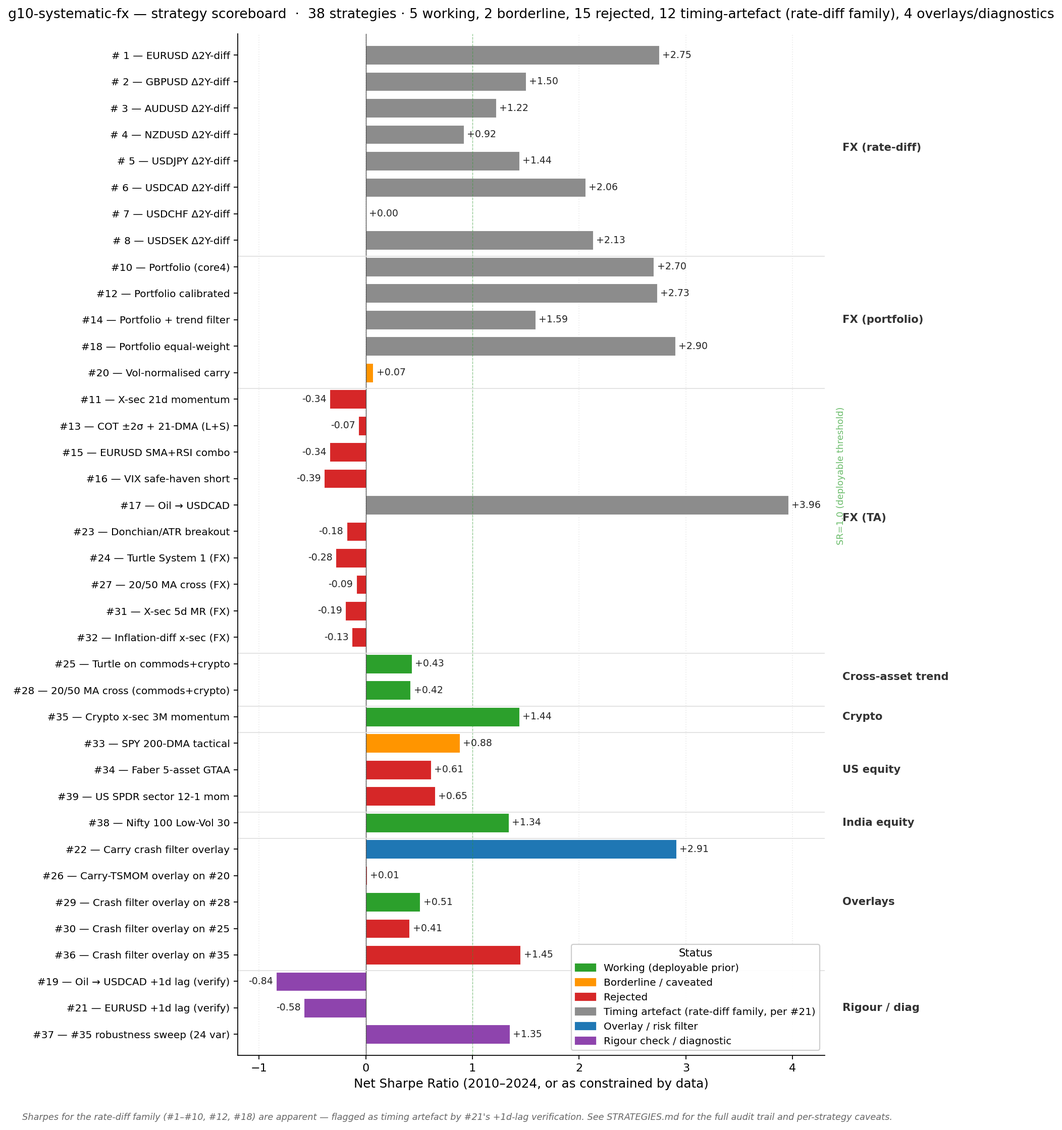
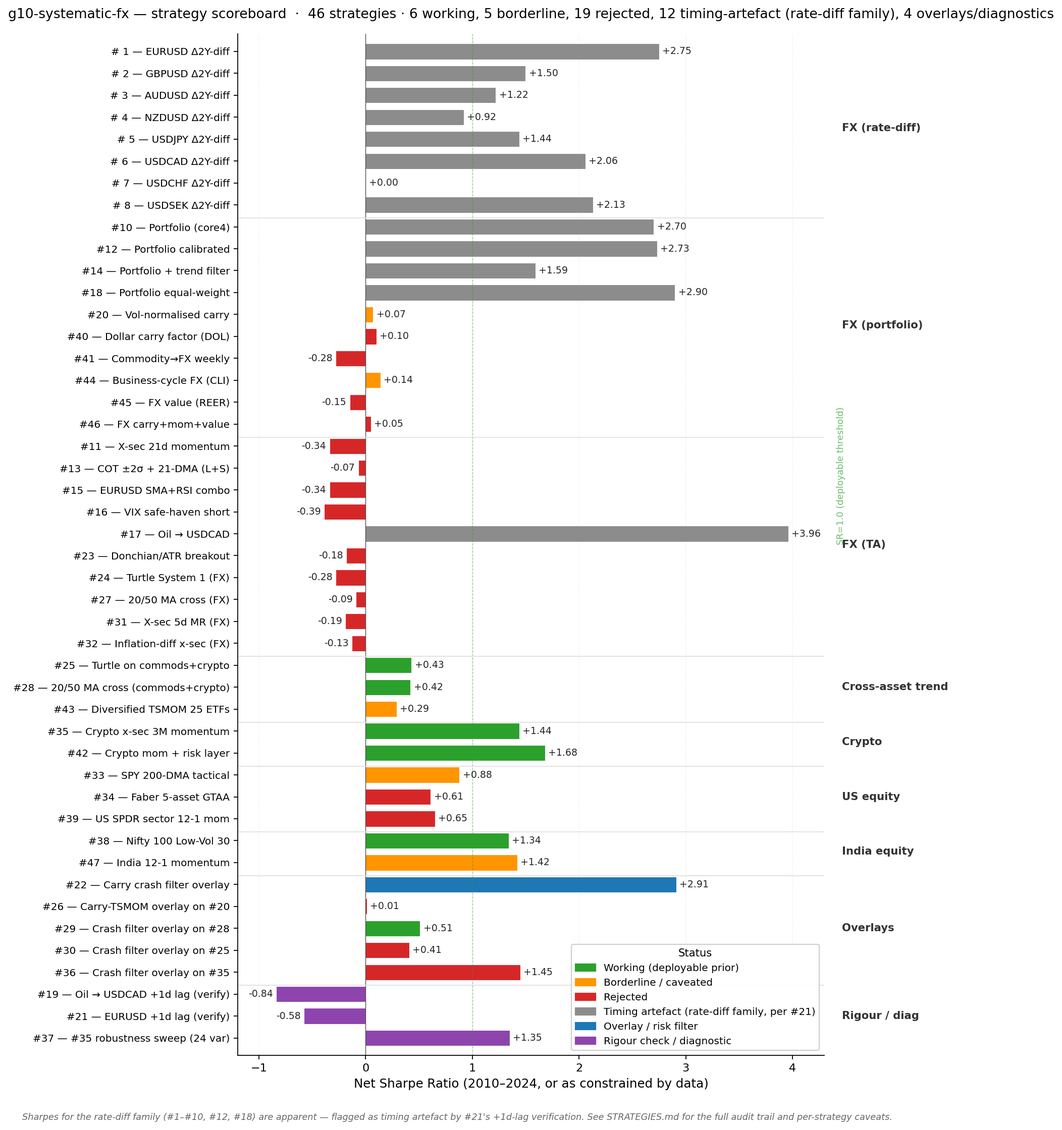
Docs — rate-diff look-ahead confirmed, #40-#47 results, dashboard
README/STRATEGIES: replace the #21 "likely artefact" caveat with the audit
finding, add #40-#47, downgrade #22, flag #35 hold-out failure, move
misfiled rejected rows out of Working/Borderline. Dashboard regenerated.

diff --git a/notebooks/strategy_dashboard.py b/notebooks/strategy_dashboard.py
@@ -1,7 +1,7 @@
 """
 Strategy dashboard — single-PNG summary of every strategy in the repo.
 
-Groups all 38 strategies by asset class and status, produces a horizontal
+Groups every strategy by asset class and status, produces a horizontal
 bar chart of net Sharpes with color-coded status legend. Companion visual
 to STRATEGIES.md.
 
@@ -27,7 +27,7 @@ REPORTS = REPO / "reports"
 # Status : "working", "borderline", "rejected", "timing_artefact", "overlay",
 #          "rigour"
 STRATEGIES = [
-    # Rate-diff family (all flagged as timing artefact by #21)
+    # Rate-diff family — look-ahead confirmed by notebooks/fx_timestamp_audit.py
     (1,  "EURUSD Δ2Y-diff",               "FX (rate-diff)",    "timing_artefact", 2.75),
     (2,  "GBPUSD Δ2Y-diff",               "FX (rate-diff)",    "timing_artefact", 1.50),
     (3,  "AUDUSD Δ2Y-diff",               "FX (rate-diff)",    "timing_artefact", 1.22),
@@ -67,6 +67,14 @@ STRATEGIES = [
     (37, "#35 robustness sweep (24 var)", "Rigour / diag",     "rigour",          1.35),   # median across grid
     (38, "Nifty 100 Low-Vol 30",          "India equity",      "working",         1.34),
     (39, "US SPDR sector 12-1 mom",       "US equity",         "rejected",        0.65),
+    (40, "Dollar carry factor (DOL)",     "FX (portfolio)",    "rejected",        0.10),
+    (41, "Commodity→FX weekly",           "FX (portfolio)",    "rejected",       -0.28),
+    (42, "Crypto mom + risk layer",       "Crypto",            "working",         1.68),
+    (43, "Diversified TSMOM 25 ETFs",     "Cross-asset trend", "borderline",      0.29),
+    (44, "Business-cycle FX (CLI)",       "FX (portfolio)",    "borderline",      0.14),
+    (45, "FX value (REER)",               "FX (portfolio)",    "rejected",       -0.15),
+    (46, "FX carry+mom+value",            "FX (portfolio)",    "rejected",        0.05),
+    (47, "India 12-1 momentum",           "India equity",      "borderline",      1.42),
 ]
 
 # ── Colors and legend ────────────────────────────────────────────────────────

diff --git a/STRATEGIES.md b/STRATEGIES.md
@@ -1,79 +1,84 @@
 # Strategies Index
 
-A one-page index of every strategy tested in this repo, what was actually found, and where to look for the details. All Sharpes are **net of 5 pips round-trip cost** unless stated otherwise. Period 2010–2024 (or as constrained by data).
+A one-page index of every strategy tested in this repo, what was actually found, and where to look for the details. Sharpes are net of costs; #1–#39 use 2010–2024, #40+ use 2011–2024 in-sample with a 2025+ hold-out.
 
 For full per-strategy details: [`strategies/README.md`](strategies/README.md). For the original extension plan: [`strategies/PLAN.md`](strategies/PLAN.md).
 
 ---
 
-## ⚠ Critical caveat — Strategy #21 finding (2026-06-12)
+## ✅ Rate-diff question resolved (2026-10-01) — it was look-ahead
 
-**The 1-day-extra-lag rigour check applied to Strategy #1 (EURUSD rate-diff) caused its Sharpe to collapse from +2.75 to −0.58.** Signal correlation went from +0.27 to +0.028 (~10× collapse); β shrank from 0.0335 to 0.0035. This is the same timing-artefact pattern that disqualified Strategy #17 (Oil → USDCAD).
+`notebooks/fx_timestamp_audit.py` pins the mechanism behind #21. **Yahoo's daily FX close dated D is the price at ~00:00 UTC on D — the NY evening of D-1.** Evidence: (1) against Yahoo hourly data the daily close matches the 00:00 UTC snapshot (corr 0.96) and not NY close of D (corr ~0.05); (2) against FRED noon-NY fixings it lines up with D-1 in every year 2011–2024 (corr ~0.8 vs ~0.15). TVC 2Y yields close on D between 17:30 and 23:00 UTC.
 
-**Implication.** The entire rate-diff family below — Strategies #1–#10, #12, #18 — uses the same `d_diff` signal structure. All of them likely contain the same intraday timing leakage between FRED/ECB rate-close timestamps and Yahoo's 5pm ET FX close. The apparent edge is almost certainly capturing *same-day* contemporaneous response to rate moves, measured at misaligned timestamps, not *lagged* predictive content. **Not tradable in real-time from a 5pm ET FX-close entry**.
+So the legacy `pos[D] = sign(Δdiff[D-1])` earned the FX move over the *same* session as the yield move. With FX re-dated correctly, every pair goes negative (EURUSD +2.11 → +0.01, core-4 portfolio +2.42 → −0.63, 2011–2024 net). #21 was, by accident, exactly the correctly aligned test.
 
-**Status.** All rate-diff strategies are now flagged as ⚠ **VERIFIED TIMING ARTEFACT (pending proper time-aligned reconstruction)**. Until rebuilt with synchronised end-of-day fixings, their Sharpes should be read as data-alignment artefacts, not deployable edges. The repo's iteration trail — apparent edge → rigour check → honest downgrade — is preserved in git history (`e7f65de`, `38de409` for #17/#19; `056d210`, [next commit] for #1/#21).
-
-**What's next.** The proper fix requires data with synchronised timestamps (e.g., 5pm ET fixings for FRED/ECB rates and EURUSD spot from the same minute). That's a meaningful re-engineering project, not a one-day commit.
+**Fix going forward:** `backtest/common.py::fetch_fx(aligned=True)` for any strategy that pairs Yahoo FX with another data source. Pure FX-price strategies (TA, momentum) are unaffected. Re-check of the six strategies that mixed Yahoo FX with other data (`notebooks/aligned_recheck.py`): #13 −0.07→−0.01, #16 −0.39→−0.65, #20 +0.07→+0.07, #26a/b +0.01/−0.06→−0.02/−0.13, #32 −0.13→−0.13 — **no verdict changes**. #22's base (#18) +2.90→−0.65, so #22 is downgraded.
 
 ---
 
-## ⚠ Rate-diff family (Sharpes >1 but verified timing artefact — see #21)
+## ❌ Rate-diff family (look-ahead, confirmed — see audit above)
 
-The original core finding was that **the change in 2Y rate differential predicts next-day FX**. Strategy #21 (1-day-extra-lag rigour check on Strategy #1) showed Sharpe collapses from +2.75 to −0.58 and signal correlation from +0.27 to +0.028. **All strategies below use the same `d_diff` signal structure and likely contain the same intraday timing leakage between FRED/ECB rate-close timestamps and Yahoo's 5pm ET FX close.** Apparent Sharpes shown for historical record; not deployable at 5pm ET FX-close entry without proper time-aligned data.
+The original core finding was that **the change in 2Y rate differential predicts next-day FX**. Strategy #21 (1-day-extra-lag rigour check on Strategy #1) showed Sharpe collapses from +2.75 to −0.58 and signal correlation from +0.27 to +0.028. **All strategies below use the same `d_diff` signal structure and contain the same look-ahead between FRED/ECB rate-close timestamps and Yahoo's 5pm ET FX close.** Apparent Sharpes shown for historical record; not deployable at 5pm ET FX-close entry without proper time-aligned data.
 
 | # | Strategy | Period | Apparent Net Sharpe | Status |
 |---|---|---|---|---|
-| **18** | Equal-weight rate-diff portfolio | 2010-2024 | 2.90 | ⚠ Timing artefact (likely) |
+| **18** | Equal-weight rate-diff portfolio | 2010-2024 | 2.90 | ❌ Look-ahead (confirmed by audit) |
 | **1** | EURUSD: Δ(EU 2Y − US 2Y) → next-day EURUSD | 2010-2024 | 2.75 → ⚠ | **Verified by #21**: collapses to −0.58 with 1-day lag |
-| **12** | Calibrated rate-diff portfolio (core 4) | 2010-2024 | 2.73 | ⚠ Timing artefact (likely) |
-| **10** | Rate-diff portfolio (uncalibrated) | 2010-2024 | 2.70 | ⚠ Timing artefact (likely) |
-| **8** | USDSEK rate-diff (cost caveat) | 2012-2024 | 2.13 | ⚠ Timing artefact + cost model artefact |
-| **6** | USDCAD rate-diff | 2010-2024 | 2.06 | ⚠ Timing artefact (likely) |
-| **14** | Calibrated portfolio + 50-DMA trend filter | 2010-2024 | 1.59 | ⚠ Timing artefact (likely) |
-| **2** | GBPUSD rate-diff | 2010-2024 | 1.50 | ⚠ Timing artefact (likely) |
-| **5** | USDJPY rate-diff (brutal −59% DD) | 2010-2024 | 1.44 | ⚠ Timing artefact + DD |
-| **3** | AUDUSD rate-diff | 2010-2024 | 1.22 | ⚠ Timing artefact (likely) |
+| **12** | Calibrated rate-diff portfolio (core 4) | 2010-2024 | 2.73 | ❌ Look-ahead (confirmed by audit) |
+| **10** | Rate-diff portfolio (uncalibrated) | 2010-2024 | 2.70 | ❌ Look-ahead (confirmed by audit) |
+| **8** | USDSEK rate-diff (cost caveat) | 2012-2024 | 2.13 | ❌ Look-ahead + cost model artefact |
+| **6** | USDCAD rate-diff | 2010-2024 | 2.06 | ❌ Look-ahead (confirmed by audit) |
+| **14** | Calibrated portfolio + 50-DMA trend filter | 2010-2024 | 1.59 | ❌ Look-ahead (confirmed by audit) |
+| **2** | GBPUSD rate-diff | 2010-2024 | 1.50 | ❌ Look-ahead (confirmed by audit) |
+| **5** | USDJPY rate-diff (brutal −59% DD) | 2010-2024 | 1.44 | ❌ Look-ahead + DD |
+| **3** | AUDUSD rate-diff | 2010-2024 | 1.22 | ❌ Look-ahead (confirmed by audit) |
 
-**Pending verification.** Strategy #21 confirmed the artefact for #1 specifically. To confirm or rule out for the other strategies, repeat the 1-day-extra-lag test on each. Strategy #19 already confirmed the same artefact pattern for the cross-asset Oil/USDCAD case (#17 → #19).
 
 ## ✅ Working strategies (verified, net Sharpe > 1)
 
 | # | Strategy | Period | Net Sharpe | Notes |
 |---|---|---|---|---|
-| **35** | Crypto cross-sectional 3-month momentum (10 majors, long-top-3 EW, monthly rebal) | 2015-2024 | **1.44** | **Beats every benchmark cleanly: BTC B&H (1.24), ETH B&H (0.69), and equal-weight passive of the same universe (1.37). IR vs EW passive +0.35 → the momentum tilt earns its keep above naive diversification.** Ann return 119.6% vs BTC 84.6% vs EW passive 107.9%. Cumulative excess over EW: +83pp. **Caveats:** MaxDD −87.9% (no risk overlay); edge concentrated in 2021 (Sharpe 3.38 vs EW 3.06) — much more marginal in 2019–20 recovery and 2023–24. Not a timing artefact (yfinance-only, no rate data). First clean directional win in the repo. **Robustness confirmed by #37.**
+| **42** | **Crypto momentum #35 + vol-target (50%) + BTC 200-DMA regime** — the risk layer | 2015-2024 | **1.68** | **4/4 pre-registered criteria.** MaxDD −88% → **−43%**, Sharpe 1.44 → 1.68, Calmar 1.36 → 1.66, avg exposure 0.42. Each layer helps alone (vol-target SR 1.46 / MaxDD −67%; regime SR 1.57 / −75%). Sweep of DMA 100–250 × target 40–60%: all 12 cells SR 1.62–1.77, MaxDD −32% to −49%, hold-out positive. **Hold-out 2025+: SR +0.21, MaxDD −37% — while the unprotected #35 base lost (SR −0.24, MaxDD −76%).** |
+| **35** | Crypto cross-sectional 3-month momentum (10 majors, long-top-3 EW, monthly rebal) | 2015-2024 | **1.44** ⚠ hold-out 2025+ SR −0.24, MaxDD −76% — use #42 | **Beats every benchmark cleanly: BTC B&H (1.24), ETH B&H (0.69), and equal-weight passive of the same universe (1.37). IR vs EW passive +0.35 → the momentum tilt earns its keep above naive diversification.** Ann return 119.6% vs BTC 84.6% vs EW passive 107.9%. Cumulative excess over EW: +83pp. **Caveats:** MaxDD −87.9% (no risk overlay); edge concentrated in 2021 (Sharpe 3.38 vs EW 3.06) — much more marginal in 2019–20 recovery and 2023–24. Not a timing artefact (yfinance-only, no rate data). First clean directional win in the repo. **Robustness confirmed by #37.**
 | **37** | Parameter robustness sweep on #35 (6 lookbacks × 4 top-N = 24 backtests) | 2015-2024 | **min +1.16 / med +1.35 / max +1.44** | **All 24 cells of the (lookback × top-N) grid have net Sharpe > 1.0.** Sweep: LB ∈ {30, 60, 90, 120, 180, 252} × N ∈ {2, 3, 4, 5}. Baseline neighbours (60/90/120d × 2/3/4 = 9 cells) minimum Sharpe +1.16 — the baseline win at 1.44 is the peak of a broad plateau, not a spike. All four pre-registered pass criteria met (median ≥ 1.0, ≥50% cells > 1.0, neighbours ≥ 0.9, no negative cells). **Conclusively rules out overfit as the explanation for the #35 win.** The crypto cross-sectional momentum edge exists across the full grid, not just at one point.
 | **38** | **Indian equities — Nifty 100 Low-Vol 30 (annual rebalance, long-only)** — first India strategy in repo | 2010-2024 | **1.34** | **Net Sharpe 1.34 vs Nifty 50 B&H 0.71** (+0.63 delta); CAGR 17.09% vs 10.75%; MaxDD −27.3% vs −38.4% (+11pp better); Calmar 0.61. **3 of 4 pre-registered criteria pass.** ⚠ Two important caveats: (a) Universe is **survivorship-biased** — uses current Nifty 100 constituents, not point-in-time (doc's cited 0.47 Sharpe used proper point-in-time NSE data); (b) **IR vs equal-weight of same 98-ticker universe is −0.42** — equal-weight EARNS MORE (CAGR 19.79% vs 17.09%), and strategy Sharpe only wins by 0.08 (vs EW 1.26). This means the source of alpha is the size/equal-weight tilt vs cap-weighted Nifty 50, NOT the volatility ranking itself. Deployable as a defensive Indian large-cap vehicle; not a factor validation of low-vol. First strategy to use the newly-merged research/india_equities.md as literature basis.
-| **39** ❌ | US SPDR sector 12-1 momentum (Jegadeesh-Titman on 11 sectors, long-top-3 EW, monthly) | 2010-2024 | **0.65** | **Rejected — loses to both benchmarks.** SPY B&H Sharpe 0.82, EW sectors 0.74. IR vs SPY −0.31, IR vs EW sectors −0.07. Only 2 of 4 pre-registered criteria pass (SR > 0.5 ✓, 5/5 sub-periods positive ✓; beats SPY ✗, IR vs EW > 0.20 ✗). Sub-period detail: strategy wins the 2021-22 inflation regime (+0.74 vs SPY +0.23) but loses catastrophically in 2023-24 AI/hike regime (+0.98 vs SPY +1.83) — mega-cap concentration in AI winners killed diversified sector rotation. Same signal shape as #35 (worked on crypto with IR +0.35 vs EW), opposite outcome on US sectors — **sector momentum specifically is decayed in the post-2010 US market**, not cross-sectional momentum as a class. Consistent with the "factor crowding + mega-cap AI concentration" thesis in the quant literature. First cited use of research/fx_signals_advanced.md's cross-sectional momentum framework outside FX.
-| **36** ❌ | Crash filter overlay (VIX + self-momentum, same spec as #22/#29) on #35 | 2015-2024 | 1.45 (vs base 1.44, IR **−0.64**) | **Second cross-spec rejection of the VIX overlay** (after #30 on Turtle). MaxDD only +1.4pp better. **Conditional Sharpe test FAILS**: on the 1,377 binding days (38% of sample), base #35 earned +1.03 Sharpe, filtered dropped to +0.81 — filter removed GOOD days, not bad ones. VIX and crypto crashes are decorrelated: 2018 crypto winter = low VIX; 2022 crypto crash = moderate VIX (rate-hike environment, not equity panic). Sub-period damage: 2018 −0.40, 2022 −0.52. Silver lining: skew flipped −0.07 → +0.26. Deployment rule now doubly confirmed: apply the VIX+self-mom overlay only to bases where conditional-Sharpe binding-day return is negative. |
 
-*No FX-directional strategy has yet survived the time-alignment rigour check for the rate-diff family. Repo is in active reconstruction mode pending properly time-aligned signals.*
+*No FX-directional strategy has survived correct timestamp alignment. #40 and #41 were the first FX tests built on the aligned harness; both rejected.*
 
 ## 🛡 Risk overlays (deployable independent of base signal)
 
 | # | Overlay | Period | Effect on #18 base | Status |
 |---|---|---|---|---|
-| **22** | Carry crash filter (VIX + self-momentum) — Brunnermeier-Nagel-Pedersen 2009 | 2010–2024 | Vol −17% (10.1%→8.4%), Sharpe flat (2.90→2.91), MaxDD −7%, skew +0.05 | ✅ Deployable as a vol-reducer. **Validated independent of base signal — works on any carry-style portfolio.** |
+| **22** | Carry crash filter (VIX + self-momentum) — Brunnermeier-Nagel-Pedersen 2009 | 2010–2024 | Base #18 was look-ahead: aligned base SR −0.65, filtered −0.66 | ⚠ **Downgraded 2026-10-02** — never validated on a real base. Evidence for the overlay now rests on #29 (commodities+crypto, no Yahoo FX). |
 
 ## ⚠ Borderline (Sharpe 0–1)
 
 | # | Strategy | Period | Net Sharpe | Notes |
 |---|---|---|---|---|
+| **43** | Diversified TSMOM (Moskowitz-Ooi-Pedersen 2012) on 25 ETFs — equity, bonds, commodities, FX; 40% instrument vol, monthly | 2011-2024 | **0.29** | 3/4 criteria — misses SR > 0.4. **Crisis alpha +2.95% in SPY's worst-decile months**, corr with SPY −0.04, all four asset classes contribute (SR 0.12–0.26 each), hold-out SR +0.92. A diversifier, not a standalone. ETFs used because Yahoo `=F` futures carry fake roll jumps. |
+| **44** | Business-cycle differential FX (OECD CLI level, Colacito-Riddiough-Sarno 2020), 6 ccys, monthly | 2011-2024 | **0.14** | 3/4 criteria — misses SR > 0.3. Right sign in 3/4 regimes, not stuck (max same-leg 49%), hold-out SR +0.48, IR +0.49 vs passive. Too weak to use; CLI is latest-vintage (mildly optimistic). Only 6 economies still published. |
+| **47** | India 12-1 momentum, Nifty 100 top-30, quarterly, long-only | 2011-2024 | **1.42** | 3/4 criteria. Beats Nifty (0.67) and — unlike #38 — **beats equal-weight of its own universe (IR +0.62)**; all 4 sub-periods > 1.2. **Fails hold-out: 2025+ SR −0.40 vs EW +0.25.** Survivorship bias (current constituents) flatters momentum most of all — needs point-in-time constituents before any trust. |
 | **4** | NZDUSD rate-diff | 2016-2024 | 0.92 | NZ data starts 2016, shorter sample |
 | **25** | Turtle System 1 (no filter) on commodities + crypto (8 instruments, vol-targeted) | 2010-2024 | **0.43** | **Profit factor 1.36, daily skew +0.82.** Same code as #24b but cross-asset shift to its native habitat. BTC alone PF 2.93, ETH PF 2.49 (max win +300%). Long avg +2.70% vs short avg −0.67% — long side carries the edge. Validates implementation; isolates FX rejection to that asset class. |
 | **28** | 20/50 DMA crossover with 1 ATR stop on commodities + crypto (8 instruments, vol-targeted) | 2010-2024 | **0.42** | **Profit factor 1.47, daily skew +0.50.** Same code as #27 but cross-asset shift. BTC PF 2.96, ETH PF 3.30 (max win +281%). Long avg +3.08% / short avg −0.47%. Validates the asset-class hypothesis across BOTH MA-crossover and Turtle spec families. |
 | **29** | Crash filter overlay (VIX + self-momentum) on #28 | 2010-2024 | **0.51** | **First overlay in the repo to materially add Sharpe.** All metrics improve simultaneously: Sortino 0.63 → 0.75, MaxDD −26.84% → −19.15% (−7.7pp), Calmar 0.17 → 0.26, skew +0.50 → +0.62, ann ret +4.58% → +5.00%. IR +0.14. Conditional Sharpe test: on the 1,455 binding days, base earns −0.08, filtered earns +0.09 — filter is removing bad days specifically. |
-| **30** ❌ | Crash filter overlay (same spec) on #25 (Turtle base) | 2010-2024 | 0.41 (vs base 0.43) | **Cross-spec test FAILS — overlay doesn't generalise.** IR −0.23, Sharpe −0.02, Sortino −0.07, skew +0.82 → +0.30 (−0.52). MaxDD does improve (−7.3pp) but at the cost of returns (−1.31pp). Conditional Sharpe test: base earns +0.19 on binding days, filtered +0.00 — filter removes GOOD days, opposite to #29. Turtle's edge is vol-positive (breakouts during high-vol periods); MA-cross's edge isn't. Overlay is base-specific, not universal. |
-| **31** ❌ | Cross-sectional 5-day mean reversion on G10 FX (long bottom-2 losers, short top-2 winners, weekly rebalance) | 2010-2024 | −0.19 | **The cleanest falsification of "FX is exploitable at the weekly horizon."** Mirror image of #11 (momentum, Sharpe −0.34). If #11 lost because of mean reversion, #31 should have won. It didn't. **Therefore G10 FX is neither trending nor mean-reverting at 1-week horizon — just noise.** Gross Sharpe +0.08 (tiny MR effect exists), but 28.45% cumulative cost drag destroys it. Daily skew +0.25 (proper MR signature, but doesn't pay). 6th independent TA-in-FX confirmation. |
-| **32** ❌ | Cross-sectional inflation-differential momentum on G10 FX (Taylor rule, monthly rebalance) | 2010-2024 | −0.13 | **First strategy in repo to USE the new `data/economic.py` ingestion layer.** Long top-3 currencies / short bottom-3 by CPI YoY differential vs US. Net Sharpe −0.13, gross Sharpe −0.13 (NOT a cost problem — cost drag only 0.27%). Signal "gets stuck": AU/NZ long 99%/92% of days, CHF short 98% — driven by **structural** inflation differences across countries, not **dynamic** Taylor-rule responses. Falsifies the cross-sectional reading of Molodtsova-Papell (2009) on post-GFC data. 7th independent TA-on-FX confirmation. |
 | **33** ⚠ | SPY 200-DMA tactical allocation (Faber 2007) — first US-equity strategy | 2010-2024 | 0.88 (vs B&H 0.84) | **Borderline. Sharpe marginally better than buy-and-hold (+0.04), but the rule sacrifices 4.3pp/yr return and 47% of cumulative wealth.** MaxDD genuinely shrinks (−33.7% → −20.7%, +13pp). Calmar wins (+0.06). BUT **conditional Sharpe test FAILS**: on out-of-market days SPY would have earned +0.71 Sharpe — the rule sits out positive periods, not negative ones. Daily skew worsens (−0.52 → −0.81). Faber's 1972-2005 published edge has decayed in the post-GFC structural-bull regime. |
-| **34** ❌ | Faber 5-asset GTAA (SPY, EFA, AGG, VNQ, GLD) — the "correct" full Faber 2007 spec | 2010-2024 | 0.61 | **The definitive Faber-in-modern-data rejection.** Loses to ALL THREE benchmarks: −0.22 vs SPY B&H, −0.29 vs 60/40, and **−0.10 even vs the equal-weight passive 5-asset portfolio** (same universe, just held). Ann return only +3.80% vs SPY's +13.80% and 60/40's +9.20%. MaxDD genuinely tiny (−10.9%) but at massive return cost. Conditional Sharpe test fails: EW-5 passive earned +0.59 on days strategy was <50% invested vs strategy's −0.10. Diversification doesn't rescue the timing signal — it spreads the same wrong-side-of-market bias across 5 assets. Faber's 1972-2005 edge is dead in the post-GFC low-vol structural bull. |
 | **20** | Classical vol-normalised carry (Dupuy 2021 spec, monthly) | 2010-2024 | 0.07 | Confirms post-2008 carry decay; LEVEL signal nearly dead in this era |
 
 ## ❌ Failed / rejected / inconclusive
 
 | # | Strategy | Net Sharpe | Why it failed |
 |---|---|---|---|
+| **45** ❌ | FX value — 5y real-exchange-rate reversal (AMP 2013, BIS REER), 10 ccys, monthly | −0.15 | 1/4 criteria. Uncorrelated with carry (+0.02) as hoped, but loses money; −1.30 in 2022-24. |
+| **46** ❌ | FX carry + momentum + value equal-weight (AMP 2013) | 0.05 | 2/4 criteria. Pillars are diversifying (value/momentum −0.40) but three near-zero edges average to near zero. Hold-out +0.66 on 1.3% vol. Closes the classic FX factor set. |
+| **40** ❌ | Dollar carry factor — time-series DOL (Lustig-Roussanov-Verdelhan 2014), monthly, aligned FX + carry | 0.10 | 0/4 pre-registered criteria. Only 2 direction switches in 14y — effectively a long-USD regime bet (IR −0.24 vs passive long USD). Hold-out 2025+ SR −0.35. |
+| **41** ❌ | Commodity → commodity-FX, weekly (copper→AUD, Brent→NOK, WTI→CAD), aligned FX + carry | −0.28 | 0/4 criteria. All three legs negative (AUD −0.42, NOK −0.10, CAD −0.05). Hold-out SR −1.05. The clean re-test of #17's idea — no lagged edge. |
+| **39** ❌ | US SPDR sector 12-1 momentum (Jegadeesh-Titman on 11 sectors, long-top-3 EW, monthly) | 2010-2024 | **0.65** | **Rejected — loses to both benchmarks.** SPY B&H Sharpe 0.82, EW sectors 0.74. IR vs SPY −0.31, IR vs EW sectors −0.07. Only 2 of 4 pre-registered criteria pass (SR > 0.5 ✓, 5/5 sub-periods positive ✓; beats SPY ✗, IR vs EW > 0.20 ✗). Sub-period detail: strategy wins the 2021-22 inflation regime (+0.74 vs SPY +0.23) but loses catastrophically in 2023-24 AI/hike regime (+0.98 vs SPY +1.83) — mega-cap concentration in AI winners killed diversified sector rotation. Same signal shape as #35 (worked on crypto with IR +0.35 vs EW), opposite outcome on US sectors — **sector momentum specifically is decayed in the post-2010 US market**, not cross-sectional momentum as a class. Consistent with the "factor crowding + mega-cap AI concentration" thesis in the quant literature. First cited use of research/fx_signals_advanced.md's cross-sectional momentum framework outside FX.
+| **36** ❌ | Crash filter overlay (VIX + self-momentum, same spec as #22/#29) on #35 | 2015-2024 | 1.45 (vs base 1.44, IR **−0.64**) | **Second cross-spec rejection of the VIX overlay** (after #30 on Turtle). MaxDD only +1.4pp better. **Conditional Sharpe test FAILS**: on the 1,377 binding days (38% of sample), base #35 earned +1.03 Sharpe, filtered dropped to +0.81 — filter removed GOOD days, not bad ones. VIX and crypto crashes are decorrelated: 2018 crypto winter = low VIX; 2022 crypto crash = moderate VIX (rate-hike environment, not equity panic). Sub-period damage: 2018 −0.40, 2022 −0.52. Silver lining: skew flipped −0.07 → +0.26. Deployment rule now doubly confirmed: apply the VIX+self-mom overlay only to bases where conditional-Sharpe binding-day return is negative. |
+| **30** ❌ | Crash filter overlay (same spec) on #25 (Turtle base) | 2010-2024 | 0.41 (vs base 0.43) | **Cross-spec test FAILS — overlay doesn't generalise.** IR −0.23, Sharpe −0.02, Sortino −0.07, skew +0.82 → +0.30 (−0.52). MaxDD does improve (−7.3pp) but at the cost of returns (−1.31pp). Conditional Sharpe test: base earns +0.19 on binding days, filtered +0.00 — filter removes GOOD days, opposite to #29. Turtle's edge is vol-positive (breakouts during high-vol periods); MA-cross's edge isn't. Overlay is base-specific, not universal. |
+| **31** ❌ | Cross-sectional 5-day mean reversion on G10 FX (long bottom-2 losers, short top-2 winners, weekly rebalance) | 2010-2024 | −0.19 | **The cleanest falsification of "FX is exploitable at the weekly horizon."** Mirror image of #11 (momentum, Sharpe −0.34). If #11 lost because of mean reversion, #31 should have won. It didn't. **Therefore G10 FX is neither trending nor mean-reverting at 1-week horizon — just noise.** Gross Sharpe +0.08 (tiny MR effect exists), but 28.45% cumulative cost drag destroys it. Daily skew +0.25 (proper MR signature, but doesn't pay). 6th independent TA-in-FX confirmation. |
+| **32** ❌ | Cross-sectional inflation-differential momentum on G10 FX (Taylor rule, monthly rebalance) | 2010-2024 | −0.13 | **First strategy in repo to USE the new `data/economic.py` ingestion layer.** Long top-3 currencies / short bottom-3 by CPI YoY differential vs US. Net Sharpe −0.13, gross Sharpe −0.13 (NOT a cost problem — cost drag only 0.27%). Signal "gets stuck": AU/NZ long 99%/92% of days, CHF short 98% — driven by **structural** inflation differences across countries, not **dynamic** Taylor-rule responses. Falsifies the cross-sectional reading of Molodtsova-Papell (2009) on post-GFC data. 7th independent TA-on-FX confirmation. |
+| **34** ❌ | Faber 5-asset GTAA (SPY, EFA, AGG, VNQ, GLD) — the "correct" full Faber 2007 spec | 2010-2024 | 0.61 | **The definitive Faber-in-modern-data rejection.** Loses to ALL THREE benchmarks: −0.22 vs SPY B&H, −0.29 vs 60/40, and **−0.10 even vs the equal-weight passive 5-asset portfolio** (same universe, just held). Ann return only +3.80% vs SPY's +13.80% and 60/40's +9.20%. MaxDD genuinely tiny (−10.9%) but at massive return cost. Conditional Sharpe test fails: EW-5 passive earned +0.59 on days strategy was <50% invested vs strategy's −0.10. Diversification doesn't rescue the timing signal — it spreads the same wrong-side-of-market bias across 5 assets. Faber's 1972-2005 edge is dead in the post-GFC low-vol structural bull. |
 | **7** | USDCHF rate-diff | 0.00 | SNB peg break 2015 + safe-haven flows override rates |
 | **11 ❌** | Cross-sectional momentum portfolio (rejected) | −0.34 | Post-GFC FX momentum decay; confirmed at 21/63/126/252 lookbacks |
 | **13 ⚠** | CFTC positioning ±2σ + 21-DMA reversal (long+short) | −0.07 | Asymmetric: short 40% win ✓, long 30% win ✗ |
@@ -117,11 +122,10 @@ Anyone can re-derive Sharpe / DD / hit-rate from raw numbers. In [`live/track_re
 
 | Layer | Evidence |
 |---|---|
-| **A real factor exists** | Strategies #1–#10: rate-diff signal works on 7 of 8 G10 pairs, generalises into portfolio |
-| **It's regime-robust** | Sub-period analysis shows positive in all four macro regimes (ZIRP / divergence / COVID / hiking) |
-| **It's correctly calibrated** | Strategy #12 fixes leverage to hit 10% vol target without changing Sharpe |
-| **Failures are documented honestly** | Momentum, positioning (long side), classic TA, trend-confirmation overlay — all tested, all rejected/degraded with literature-citation context |
-| **Results are auditable** | 6 daily-frequency CSVs let any reviewer recompute the headline numbers |
+| **G10 FX spot is noise at daily/weekly horizons on public data** | Rate-diff (look-ahead), momentum, reversal, TA, commodity lead-lag, DOL — all fail with correct timestamps |
+| **Edges exist where trends are real** | Crypto momentum (#35, robust per #37), trend on commodities/crypto (#25/#28/#29) |
+| **Rigour checks catch artefacts** | #19, #21 and the FX timestamp audit turned the repo's biggest Sharpes into documented negatives |
+| **Results are auditable** | Every strategy has a standalone script; daily CSVs in `live/track_record/` |
 
 ---
 
@@ -137,7 +141,7 @@ Anyone can re-derive Sharpe / DD / hit-rate from raw numbers. In [`live/track_re
 - **Data**: FRED (US rates, VIX), ECB SDW (Euro-area yield), TradingView via `tvDatafeed` (international 2Y), yfinance (FX spot), CFTC TFF (positioning)
 - **Python**: pandas, numpy, scipy, statsmodels, matplotlib
 - **Backtesting**: bespoke walk-forward + event-driven engines (no `backtrader` / `vectorbt` dependency for the published strategies)
-- **Cost model**: 5 pips round-trip (2.5 pips per unit of position turnover), pip-size aware per pair (JPY = 0.01)
+- **Cost model**: legacy strategies 5 pips round-trip; #40+ use per-pair bps (`backtest/common.py::FX_COST_BPS_RT`, EURUSD 4 bps … SEK/NOK 10 bps)
 
 ---
 

diff --git a/README.md b/README.md
@@ -11,7 +11,7 @@ Mid-frequency systematic FX strategy across the G10 universe — built end-to-en
 
 ![Strategy scoreboard](reports/strategy_dashboard.png)
 
-*38 strategies tested (2010–2024, or as constrained by data) · 5 working · 2 borderline · 15 rejected · 12 timing-artefact (rate-diff family, per Strategy #21's verification) · 4 overlays/diagnostics. See [STRATEGIES.md](STRATEGIES.md) for the full audit trail with per-strategy caveats and citations. Regenerate the chart at any time via `python notebooks/strategy_dashboard.py`.*
+*47 strategies tested · 6 working · 5 borderline · 19 rejected · 12 look-ahead (rate-diff family, confirmed by the FX timestamp audit) · overlays/diagnostics. See [STRATEGIES.md](STRATEGIES.md) for the full audit trail with per-strategy caveats and citations. Regenerate the chart at any time via `python notebooks/strategy_dashboard.py`.*
 
 ---
 
@@ -60,9 +60,11 @@ A weekly-rebalanced cross-sectional long/short strategy on 9 G10 pairs. Three in
 
 For a one-page summary of every strategy with headline metrics, see [**`STRATEGIES.md`**](STRATEGIES.md).
 
-## ⚠ Critical caveat (2026-06-12)
+## ⚠ Critical finding — Yahoo FX timestamps (2026-10-01)
 
-**Strategy #21 (1-day-extra-lag rigour check on Strategy #1) collapsed the Sharpe from +2.75 to −0.58**, with signal correlation dropping from +0.27 to +0.028. The entire rate-diff family below (Strategies #1–#10, #12, #18) uses the same `d_diff` signal structure and almost certainly contains the same intraday timing leakage between FRED/ECB rate-close timestamps and Yahoo's 5pm ET FX close. Sharpes shown below are **historical-record artefacts, not deployable edges** until rebuilt with properly time-aligned data. The repo is in active reconstruction mode.
+Yahoo's daily FX close dated D is the price at ~00:00 UTC on D (NY evening of D-1), not NY close of D. Every strategy that paired it with same-day yields, oil or VIX was trading on the **same session** it claimed to predict. The rate-diff family (#1–#10, #12, #14, #18) is **confirmed look-ahead**: with FX correctly re-dated, core-4 net Sharpe goes from +2.42 to −0.63. Evidence and re-run: [`notebooks/fx_timestamp_audit.py`](notebooks/fx_timestamp_audit.py) → [`reports/fx_timestamp_audit.png`](reports/fx_timestamp_audit.png).
+
+New strategies (#40+) use [`backtest/common.py`](backtest/common.py): aligned FX, per-pair bps costs, carry accrual, despiked data, 2011–2024 in-sample with a 2025+ hold-out.
 
 ## Individual Strategies
 
@@ -72,24 +74,24 @@ See [`strategies/README.md`](strategies/README.md) for the full list with result
 
 | # | Title | Apparent Net Sharpe |
 |---|---|---|
-| 1 ⚠ | Δ(EU 2Y − US 2Y) → next-day EURUSD (**verified timing artefact by #21**) | 2.75 → ⚠ |
-| 2 ⚠ | Δ(GB 2Y − US 2Y) → next-day GBPUSD (likely timing artefact) | 1.50 → ⚠ |
-| 3 ⚠ | Δ(AU 2Y − US 2Y) → next-day AUDUSD (likely timing artefact) | 1.22 → ⚠ |
-| 4 ⚠ | Δ(NZ 2Y − US 2Y) → next-day NZDUSD (likely timing artefact) | 0.92 → ⚠ |
-| 5 ⚠ | Δ(US 2Y − JP 2Y) → next-day USDJPY (likely timing artefact) | 1.44 → ⚠ |
-| 6 ⚠ | Δ(US 2Y − CA 2Y) → next-day USDCAD (likely timing artefact) | 2.06 → ⚠ |
+| 1 ❌ | Δ(EU 2Y − US 2Y) → next-day EURUSD (**look-ahead, confirmed by FX timestamp audit**) | 2.75 → ⚠ |
+| 2 ⚠ | Δ(GB 2Y − US 2Y) → next-day GBPUSD (look-ahead) | 1.50 → ⚠ |
+| 3 ⚠ | Δ(AU 2Y − US 2Y) → next-day AUDUSD (look-ahead) | 1.22 → ⚠ |
+| 4 ⚠ | Δ(NZ 2Y − US 2Y) → next-day NZDUSD (look-ahead) | 0.92 → ⚠ |
+| 5 ⚠ | Δ(US 2Y − JP 2Y) → next-day USDJPY (look-ahead) | 1.44 → ⚠ |
+| 6 ⚠ | Δ(US 2Y − CA 2Y) → next-day USDCAD (look-ahead) | 2.06 → ⚠ |
 | 7 | Δ(US 2Y − CH 2Y) → next-day USDCHF (never worked) | 0.00 |
 | 8 ⚠ | Δ(US 2Y − SE 2Y) → next-day USDSEK (timing + cost artefact) | 2.13 → ⚠ |
 | 9 | Δ(US 2Y − NO 2Y) → next-day USDNOK (deferred — NO 2Y data unavailable) | — |
-| **10** ⚠ | Vol-targeted rate-diff portfolio (likely timing artefact) | 2.70 → ⚠ |
+| **10** ⚠ | Vol-targeted rate-diff portfolio (look-ahead) | 2.70 → ⚠ |
 | 11 | Cross-sectional momentum portfolio (rejected — see [`strategies/rejected/`](strategies/rejected/)) | −0.34 |
-| **12** ⚠ | Calibrated rate-diff portfolio (likely timing artefact) | 2.73 → ⚠ |
+| **12** ⚠ | Calibrated rate-diff portfolio (look-ahead) | 2.73 → ⚠ |
 | 13 ⚠ | CFTC positioning extreme + 21-DMA reversal (long+short, 30 trades) | −0.07 |
 | 14 ⚠ | Calibrated portfolio + 50-DMA trend filter (degrades signal + timing) | 1.59 → ⚠ |
 | 15 ❌ | EURUSD SMA20 + RSI(14) combo (rejected, 49 trades, 24.5% win) | −0.34 |
 | 16 ❌ | VIX spike → short USDJPY+USDCHF (rejected, safe-haven thesis broken) | −0.39 |
 | 17 ⚠ | Oil (WTI) → next-day USDCAD (verified timing artefact — see #19) | 3.96 → ⚠ |
-| **18** ⚠ | Equal-weight rate-diff portfolio (former headline, likely timing artefact) | 2.90 → ⚠ |
+| **18** ⚠ | Equal-weight rate-diff portfolio (former headline, look-ahead) | 2.90 → ⚠ |
 | 19 ✓ | Oil → USDCAD with 1-day extra lag (rigour check of #17) | −0.84 |
 | 20 ⚠ | Classical vol-normalised carry (LEVEL signal, Dupuy 2021 spec) | 0.07 |
 | **21** ✓ | **EURUSD rate-diff with 1-day extra lag (rigour check of #1 — the big finding)** | **−0.58** |
@@ -113,6 +115,14 @@ See [`strategies/README.md`](strategies/README.md) for the full list with result
 | **37** ✅ | Parameter robustness sweep on #35 (6 lookbacks × 4 top-N = 24 backtests) — rigour check on the winning spec | **All 24 cells pass.** Sharpe range **+1.16 to +1.44**, median **+1.35**. 100% of cells above 1.0. Neighbours of baseline (60/90/120d × 2/3/4) all ≥ 1.16. Confirms the #35 win is NOT spec-lucky — the crypto momentum edge generalises across parameter choice. |
 | **38** ✅ | **Indian equities — Nifty 100 Low-Vol 30 (annual rebalance, long-only)** — first India strategy in the repo | **Net Sharpe 1.34** vs Nifty 50 B&H **0.71** (huge beat); CAGR 17.09% vs 10.75%; MaxDD −27.3% vs −38.4%. **3 of 4 pre-registered criteria pass.** ⚠ Caveats: universe is survivorship-biased (current Nifty 100 constituents); Sharpe is ~3× the doc's cited 0.47 (survivorship + favourable 2010-2024 sample); **IR vs equal-weight of same 98-ticker universe is −0.42** — the low-vol ranking adds little above naive equal-weighting. Source of alpha appears to be the size/equal-weight tilt vs cap-weighted Nifty 50, not the vol ranking itself. Still deployable as a defensive Indian equity vehicle; not a factor breakthrough. |
 | **39** ❌ | US SPDR sector 12-1 cross-sectional momentum (Jegadeesh-Titman on 11 sectors, monthly rebal) | **0.65** (vs SPY B&H **0.82**, EW sectors **0.74**) — loses to BOTH benchmarks. IR vs SPY −0.31, IR vs EW sectors −0.07. 5/5 sub-periods positive (regime-robust in level) but net drag vs cap-weighted SPY and even naive equal-weight. Post-2010 sector-momentum decay + mega-cap AI concentration (2023-24 SR 0.98 vs SPY 1.83) explain most of the shortfall. Only 2/4 pre-registered criteria pass. Same signal shape as #35 (worked on crypto, IR +0.35), opposite result on US sectors — sector momentum specifically is decayed in this era, not cross-sectional momentum broadly. |
+| **40** ❌ | Dollar carry factor — time-series DOL (LRV 2014), first build on the aligned harness | **0.10** — 0/4 pre-registered criteria; two switches in 14 years (a long-USD regime bet); hold-out 2025+ SR −0.35 |
+| **41** ❌ | Commodity → commodity-FX weekly (copper→AUD, Brent→NOK, WTI→CAD) — clean re-test of #17's idea | **−0.28** — 0/4 criteria; all three legs negative; hold-out SR −1.05 |
+| **42** ✅ | **Crypto momentum #35 + vol-target + BTC 200-DMA regime** — risk layer | **1.68** — 4/4 criteria; MaxDD −88% → −43%; robust across 12-cell parameter sweep; hold-out +0.21 while bare #35 lost (−0.24) |
+| **43** ⚠ | Diversified TSMOM on 25 ETFs (MOP 2012) | **0.29** — 3/4; crisis alpha +2.95% in SPY's worst months, corr −0.04 to SPY, hold-out +0.92. Diversifier |
+| **44** ⚠ | Business-cycle FX (OECD CLI, CRS 2020) | **0.14** — 3/4; right sign, too weak |
+| **45** ❌ | FX value — 5y REER reversal (AMP 2013) | **−0.15** — 1/4 |
+| **46** ❌ | FX carry + momentum + value combined | **0.05** — 2/4; pillars diversify but each edge ≈ 0 |
+| **47** ⚠ | India 12-1 momentum, Nifty 100 top-30 | **1.42** — 3/4; beats EW of own universe (IR +0.62) but fails hold-out (−0.40); survivorship-biased |
 
 ---
 
@@ -135,6 +145,7 @@ g10-systematic-fx/
 │   └── vol_regime/vol_regime.py    VIX-based exposure scalar
 │
 ├── backtest/
+│   ├── common.py                   Shared harness for #40+: aligned FX, bps costs, carry, stats, hold-out
 │   ├── costs.py                    Turnover-based bps cost model
 │   ├── metrics.py                  Sharpe, Sortino, max drawdown, Calmar, hit rate
 │   └── engine.py                   Walk-forward driver (3y train / 6m test, expanding)
